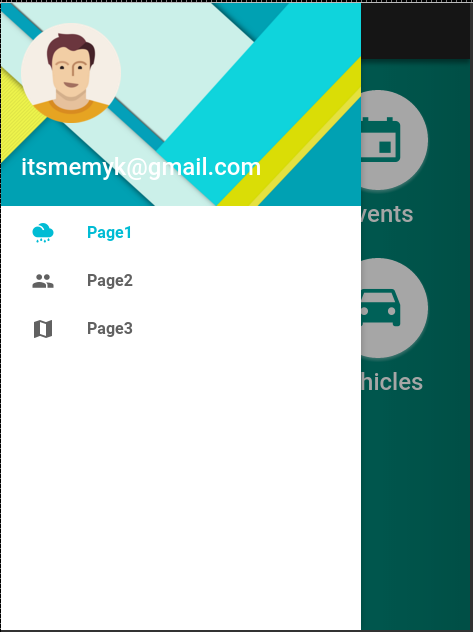
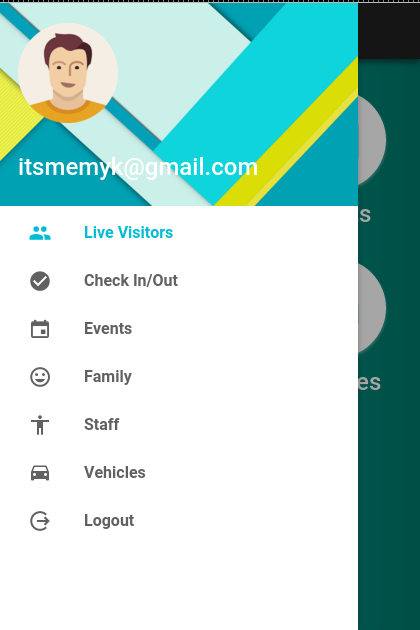
Screenshot Updated

diff --git a/gorkhaApp/app/app.js b/gorkhaApp/app/app.js
@@ -20,9 +20,13 @@ export class MyApp {
     
     
     this.pages = [
-      {title:'Page1', component: TabsPage, index: 0, icon: 'rainy', isActive:true},
-      {title:'Page2', component: TabsPage, index: 1, icon: 'people', isActive:false},
-      {title:'Page3', component: TabsPage, index: 2, icon: 'map', isActive:false}  
+      {title:'Live Visitors', component: TabsPage, index: 0, icon: 'people', isActive:true},
+      {title:'Check In/Out', component: TabsPage, index: 1, icon: 'checkmark-circle', isActive:false},
+      {title:'Events', component: TabsPage, index: 2, icon: 'calendar', isActive:false},
+      {title:'Family', component: TabsPage, index: 3, icon: 'happy', isActive:false},
+      {title:'Staff', component: TabsPage, index: 2, icon: 'body', isActive:false},
+      {title:'Vehicles', component: TabsPage, index: 2, icon: 'car', isActive:false},
+      {title:'Logout', component: TabsPage, index: 2, icon: 'log-out', isActive:false}  
     ];
     
     platform.ready().then(() => {
